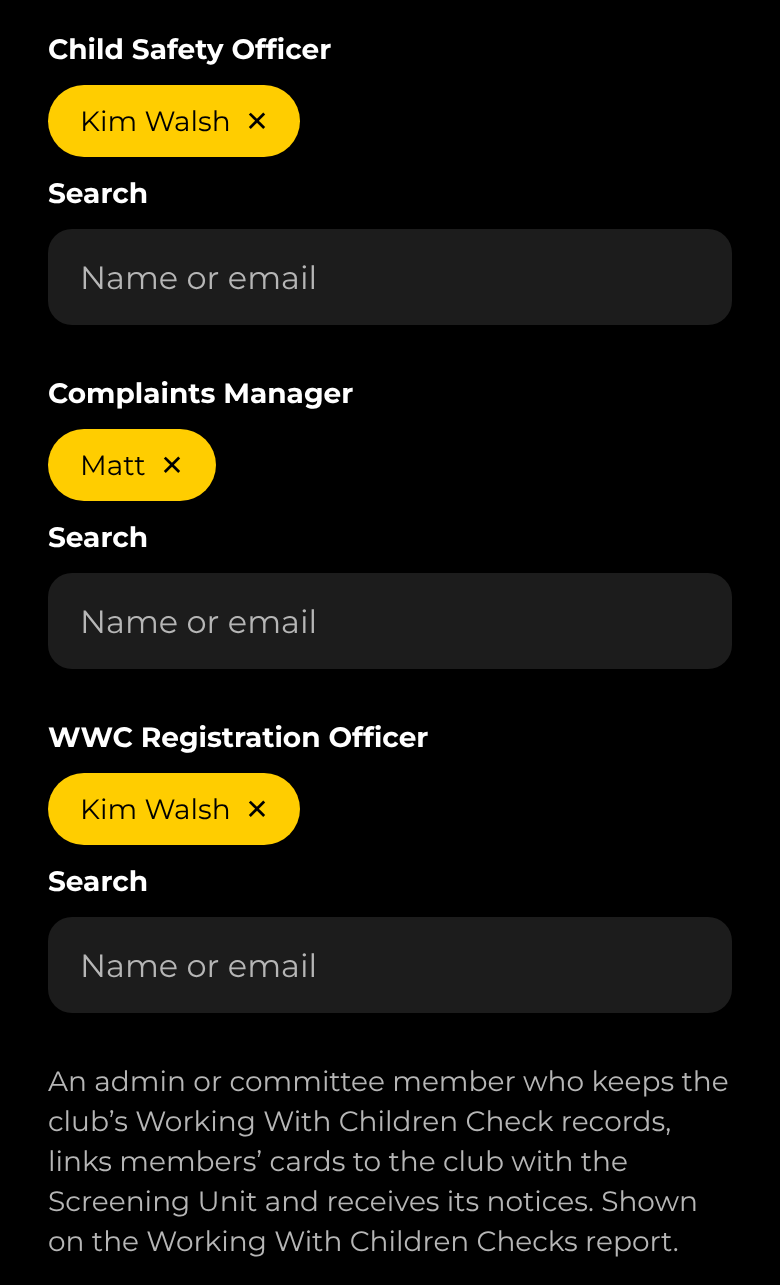
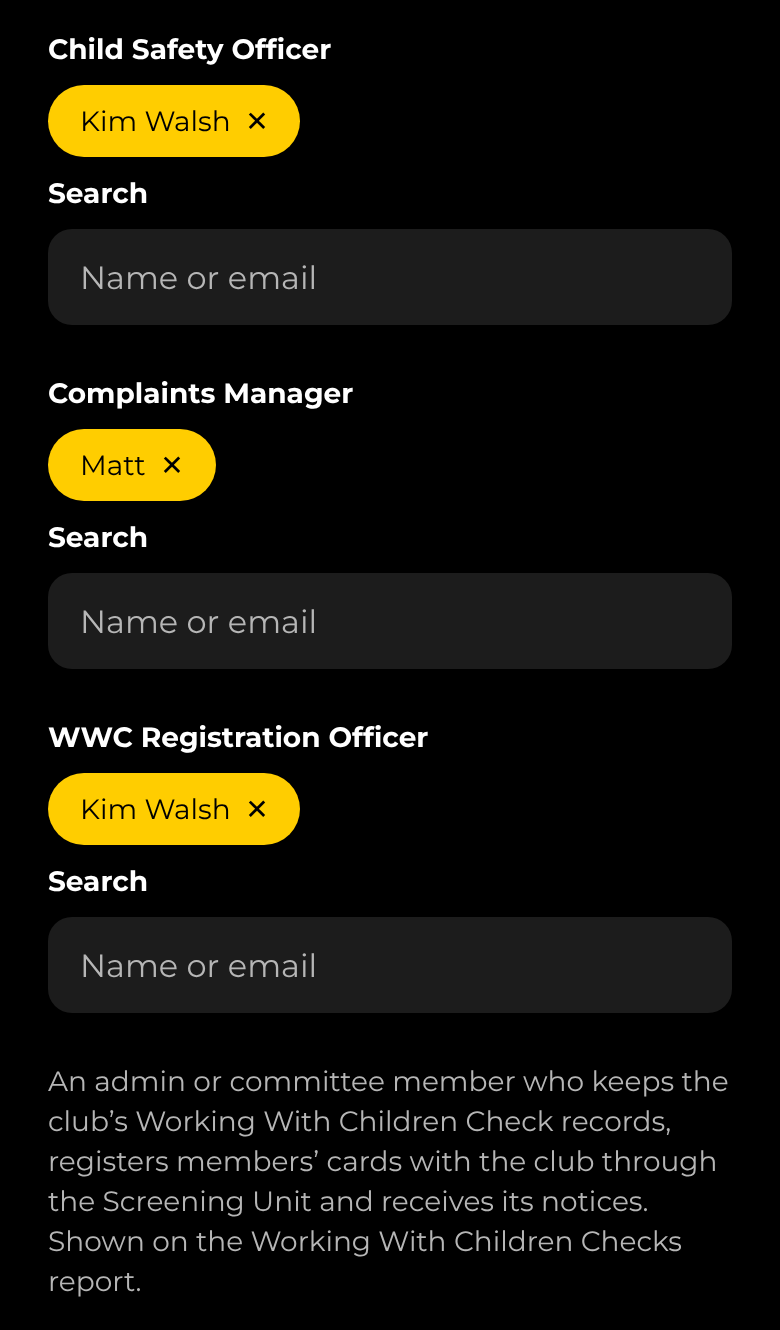
Say "Registered card with" the club instead of "Linked with the Screening Unit"
Matt found "linked to the club with the Screening Unit" unclear. The switch
on a member's card now reads "Registered card with {club name}", with a line
saying why: so the Screening Unit tells the club if the card's status
changes. The to-do, Needs checking line, report column and guide match.
Wording only; nothing in the database changes.

Claude-Session: https://claude.ai/code/session_01PSj6UtGHkyxoGwMZG7YNkM

Changed region(s): [[0.0615, 0.0311, 0.9538, 0.9961]]

diff --git a/src/components/wwcc-validation.tsx b/src/components/wwcc-validation.tsx
@@ -5,6 +5,7 @@ import { ThemedText } from '@/components/themed-text';
 import { Button, Card, ChipGroup, ErrorText, TextField } from '@/components/ui';
 import { Spacing } from '@/constants/theme';
 import { useTheme } from '@/hooks/use-theme';
+import { useClub } from '@/lib/club';
 import { localDay } from '@/lib/reports';
 import { wwccRecordIssues, wwccValidationLabels } from '@/lib/safety';
 import { supabase } from '@/lib/supabase';
@@ -14,7 +15,8 @@ const methods = Object.keys(wwccValidationLabels) as WwccValidationMethod[];
 
 /**
  * An admin records checking a member's current card: the name on it, how it
- * was checked and whether it is linked to the club with the Screening Unit.
+ * was checked and whether the card is registered with the club, so the
+ * Screening Unit tells the club if its status changes.
  * The app keeps who did it and when. Nobody validates their own card.
  */
 export function WwccValidation({
@@ -30,6 +32,7 @@ export function WwccValidation({
   onSaved: (changes: Partial<Profile>) => void;
 }) {
   const theme = useTheme();
+  const club = useClub();
   const [cardName, setCardName] = useState(member.wwcc_card_name ?? member.full_name ?? '');
   const [method, setMethod] = useState<WwccValidationMethod | null>(null);
   const [linked, setLinked] = useState(!!member.wwcc_unit_linked_at);
@@ -75,7 +78,7 @@ export function WwccValidation({
           {member.wwcc_validated_by ? validatorName(member.wwcc_validated_by) : 'a former admin'}
           {member.wwcc_card_name ? `. Name on card: ${member.wwcc_card_name}` : ''}.
           {member.wwcc_unit_linked_at
-            ? ` Linked with the Screening Unit on ${localDay(member.wwcc_unit_linked_at)}.`
+            ? ` Registered with ${club.name} on ${localDay(member.wwcc_unit_linked_at)}.`
             : ''}
         </ThemedText>
       ) : null}
@@ -107,11 +110,14 @@ export function WwccValidation({
             onToggle={(m) => setMethod(m === method ? null : m)}
           />
           <Card style={styles.switchRow}>
-            <ThemedText type="small" style={styles.grow}>
-              Linked to the club with the Screening Unit, so the club hears if the card changes
-            </ThemedText>
+            <View style={styles.grow}>
+              <ThemedText type="small">Registered card with {club.name}</ThemedText>
+              <ThemedText type="small" themeColor="textSecondary">
+                So the Screening Unit tells the club if the card’s status changes
+              </ThemedText>
+            </View>
             <Switch
-              accessibilityLabel="Linked to the club with the Screening Unit"
+              accessibilityLabel={`Registered card with ${club.name}`}
               value={linked}
               onValueChange={setLinked}
               trackColor={{ true: theme.accent, false: theme.backgroundSelected }}

diff --git a/src/lib/reports.ts b/src/lib/reports.ts
@@ -208,7 +208,7 @@ export function wwccReport(
     { label: 'Card number', width: 1.0 },
     { label: 'Expires', width: 0.8 },
     { label: 'Validated', width: 1.5 },
-    { label: 'Linked with Unit', width: 0.9 },
+    { label: 'Registered with club', width: 0.9 },
     { label: 'Status', width: 1.5 },
   ];
   const count = (kind: string) => people.filter((p) => p.status.kind === kind).length;
@@ -250,7 +250,7 @@ export function wwccReport(
     sections: [
       {
         title: 'Needs attention',
-        note: `Missing, expired or expiring within ${WWCC_WARNING_DAYS} days, never validated or validated over a year ago, or not linked to the club with the Screening Unit. Their coach, manager, physio and committee roles are paused while a check is missing or expired. Admin roles are not paused, so the club is never locked out, but an admin can be stood down.`,
+        note: `Missing, expired or expiring within ${WWCC_WARNING_DAYS} days, never validated or validated over a year ago, or not registered with the club (so the Screening Unit tells the club if the card’s status changes). Their coach, manager, physio and committee roles are paused while a check is missing or expired. Admin roles are not paused, so the club is never locked out, but an admin can be stood down.`,
         columns,
         rows: people
           .filter((p) => p.status.problem || (current(p.status) && wwccRecordIssues(p.member).length > 0))

diff --git a/src/lib/safety.ts b/src/lib/safety.ts
@@ -68,7 +68,8 @@ export const barringNotices: ScreeningNoticeKind[] = [
 
 /**
  * What still needs doing for a current card: validating it (never, or more
- * than a year ago) and linking it to the club with the Screening Unit. Same
+ * than a year ago) and registering it with the club, so the Screening Unit
+ * tells the club if its status changes. Same
  * rules as `public.admin_safety_todos` in the database.
  */
 export function wwccRecordIssues(
@@ -79,7 +80,7 @@ export function wwccRecordIssues(
   yearAgo.setFullYear(yearAgo.getFullYear() - 1);
   if (!member.wwcc_validated_at) issues.push('Check not validated');
   else if (new Date(member.wwcc_validated_at) < yearAgo) issues.push('Check validated over a year ago');
-  if (!member.wwcc_unit_linked_at) issues.push('Card not linked with the Screening Unit');
+  if (!member.wwcc_unit_linked_at) issues.push('Card not registered with the club');
   return issues;
 }
 

diff --git a/src/app/admin/safeguarding.tsx b/src/app/admin/safeguarding.tsx
@@ -185,8 +185,8 @@ export default function SafeguardingScreen() {
       />
       <ThemedText type="small" themeColor="textSecondary">
         An admin or committee member who keeps the club’s Working With Children Check records,
-        links members’ cards to the club with the Screening Unit and receives its notices. Shown
-        on the Working With Children Checks report.
+        registers members’ cards with the club through the Screening Unit and receives its notices.
+        Shown on the Working With Children Checks report.
       </ThemedText>
 
       {savedCommitteeFrom ? (

diff --git a/src/lib/todos.ts b/src/lib/todos.ts
@@ -350,8 +350,8 @@ export function buildTodos({
     if (safety.wwcc_to_link > 0) {
       todos.push({
         key: 'wwcc-link',
-        title: `Link ${plural(safety.wwcc_to_link, 'card', 'cards')} to the club with the Screening Unit`,
-        detail: 'So the Screening Unit tells the club if a card changes',
+        title: `Register ${plural(safety.wwcc_to_link, 'card', 'cards')} with the club`,
+        detail: 'So the Screening Unit tells the club if a card’s status changes',
         href: '/admin',
       });
     }

diff --git a/src/lib/types.ts b/src/lib/types.ts
@@ -89,7 +89,7 @@ export type Profile = {
   wwcc_validated_at?: string | null;
   wwcc_validated_by?: string | null;
   wwcc_validation_method?: WwccValidationMethod | null;
-  /** When an admin recorded the card as linked to the club with the Screening Unit. */
+  /** When an admin recorded the card as registered with the club. */
   wwcc_unit_linked_at?: string | null;
   /** Why an admin didn't approve them, shown to the member. */
   rejection_reason: RejectionReason | null;

diff --git a/src/lib/use-pending-requests.ts b/src/lib/use-pending-requests.ts
@@ -46,7 +46,7 @@ export type SafetyTodos = {
   athletes_without_date_of_birth: number;
   /** Current cards never validated, or validated over a year ago. */
   wwcc_to_validate: number;
-  /** Current cards not linked to the club with the Screening Unit. */
+  /** Current cards not registered with the club. */
   wwcc_to_link: number;
   /** Barring notices the governing body hasn't been told about. */
   notices_to_report: number;

diff --git a/docs/user-guide.md b/docs/user-guide.md
@@ -1215,7 +1215,7 @@ expired or expires within 60 days, a volunteer exemption waiting for the declara
 60 days or no longer applying (a visitor or national event exemption is short by design, so it only
 shows once it has ended; a temporary helper shows only between their first and last day), someone who is stood down, an athlete under 18 with no guardian
 linked, an athlete with no date of birth, an athlete about to turn 18, a card never validated or
-validated over a year ago, or a card not linked with the Screening Unit. They also show "Needs checking" in the main list. Open someone to fix it; once saved,
+validated over a year ago, or a card not registered with the club. They also show "Needs checking" in the main list. Open someone to fix it; once saved,
 they drop off the list.
 
 Open a request to see the person's sign-in email, PlayHQ email, the date of birth they gave and
@@ -1238,8 +1238,9 @@ Check them against PlayHQ, then:
    Check** card number and expiry date. Cards last three years, so a later expiry is refused. Once
    the card is saved, **Validation** records checking it: enter the **Name on the card**, choose
    how you checked it (**Checked online** on the Screening Unit's website, **Card sighted** or
-   **Screening Unit letter**), switch on **Linked to the club with the Screening Unit** once the
-   card is linked so the Unit tells the club of any change, and tap **Record validation**. The
+   **Screening Unit letter**), switch on **Registered card with** your club once you've
+   registered the card with the club through the Screening Unit, so the Unit tells the club if the
+   card's status changes, and tap **Record validation**. The
    page shows who validated it, how and when. Validate every card at least once a year and again
    when it's renewed: a new card number or expiry needs a new validation. You can't validate your
    own card. A committee member or admin who doesn't need one, such as a
@@ -1339,7 +1340,7 @@ club** or **Other**) and tap **Don't approve**. They see the reason and can requ
 <img src="user-guide/member-wwcc.png" width="210" alt="Coach with Working With Children Check fields">
 <img src="user-guide/member-wwcc-exempt.png" width="210" alt="Committee member exempted from the Working With Children Check, with the reason">
 <img src="user-guide/member-wwcc-admin.png" width="210" alt="An admin who needs a Working With Children Check, with the Exempt choice">
-<img src="user-guide/member-wwcc-validation.png" width="210" alt="Validating a card: name on the card, how it was checked and the Screening Unit link">
+<img src="user-guide/member-wwcc-validation.png" width="210" alt="Validating a card: name on the card, how it was checked and whether it is registered with the club">
 <img src="user-guide/member-volunteer-exempt.png" width="210" alt="A manager recorded as a parent volunteer, waiting to accept the declaration">
 <img src="user-guide/member-volunteer.png" width="210" alt="A temporary helper waiting for approval: their task, dates and what they said">
 <img src="user-guide/member-visitor-exempt.png" width="210" alt="Recording a national event exemption, with the links to the rules at the source">
@@ -1654,9 +1655,9 @@ name, the date it was made and page numbers, and anything that needs attention i
 - **Working With Children Checks**: printed across the page, with the WWC Registration Officer
   at the top. Every approved coach, manager, physio, temporary helper (while helping), committee member and admin with their name on the
   card, date of birth, roles, squads and teams, card number, expiry date, when and how the card was
-  last validated and by whom, when it was linked with the Screening Unit, and status. Checks that
+  last validated and by whom, when it was registered with the club, and status. Checks that
   are missing, have no expiry date, have expired, expire within 60 days, were never validated or
-  were validated over a year ago, or aren't linked with the Screening Unit are listed first under
+  were validated over a year ago, or aren't registered with the club are listed first under
   **Needs attention**. Committee members and admins who are exempt are listed next, with the reason, who
   exempted them and when. **Exempt from a check** lists every exemption,
 current ones first, with the child, or the event, organiser and dates, who recorded it, when the declaration was accepted and where
@@ -1851,8 +1852,8 @@ If a contact's check lapses or they're stood down, they stop being shown and sto
 until you choose again.
 
 The **WWC Registration Officer** is an admin or committee member with a current check who keeps
-the club's Working With Children Check records, links members' cards to the club with the
-Screening Unit and receives its notices. They're named on the Working With Children Checks report,
+the club's Working With Children Check records, registers members' cards with the club through
+the Screening Unit and receives its notices. They're named on the Working With Children Checks report,
 and your to-do list asks you to choose one until you do.
 
 **Committee checks required from** is the day from which every committee member needs a current
@@ -2107,8 +2108,8 @@ Working With Children Check, and another admin must do it.
 
 - **A check before you start.** Coaches, managers, physios, committee members and admins need a current
   Working With Children Check before they're approved. An admin validates the card, online or by
-  sighting it, at least once a year and whenever it's renewed, and links it to the club with the
-  Screening Unit, so the club hears if anything changes.
+  sighting it, at least once a year and whenever it's renewed, and registers it with the club
+  through the Screening Unit, so the club hears if the card's status changes.
 - **Parent and under-18 volunteers.** In WA a parent volunteering at their child's club, or a
   volunteer under 18, is exempt instead and accepts a declaration in the app (see [Volunteer
   exemptions](#volunteer-exemptions)). The exemption ends by itself when the child or volunteer
@@ -2177,8 +2178,8 @@ Working With Children Check, and another admin must do it.
   Checks report lists them all. The admin's member page links to the Act and the Screening Unit's
   fact sheets so exemptions can be checked at the source.
 - **Your to-do list does the chasing**: new concerns, missing or expiring checks, volunteer
-  exemptions ending, declarations not yet accepted, cards to validate or link with the Screening
-  Unit, notices to report to the governing body, no WWC Registration Officer, athletes with no date
+  exemptions ending, declarations not yet accepted, cards to validate or register with the
+  club, notices to report to the governing body, no WWC Registration Officer, athletes with no date
   of birth, athletes under 18 without a guardian and athletes turning 18.
 - **Reports for your records.** The Working With Children Checks report follows the Screening
   Unit's record layout: every check with the name on the card, date of birth, card number, expiry
